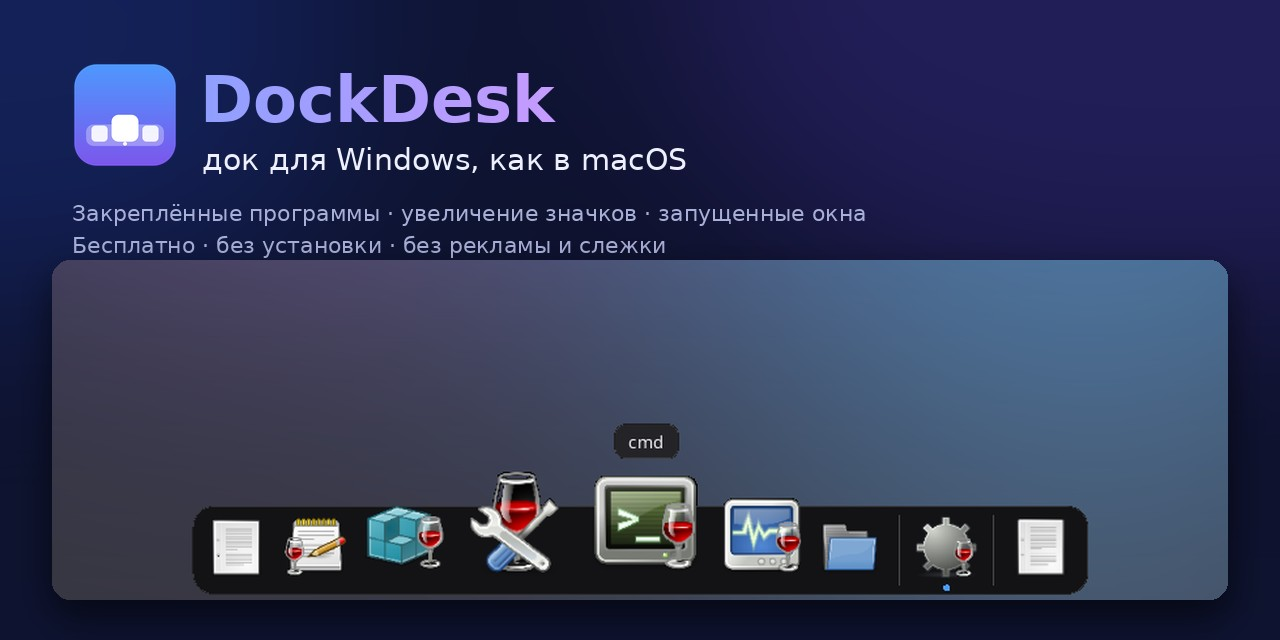
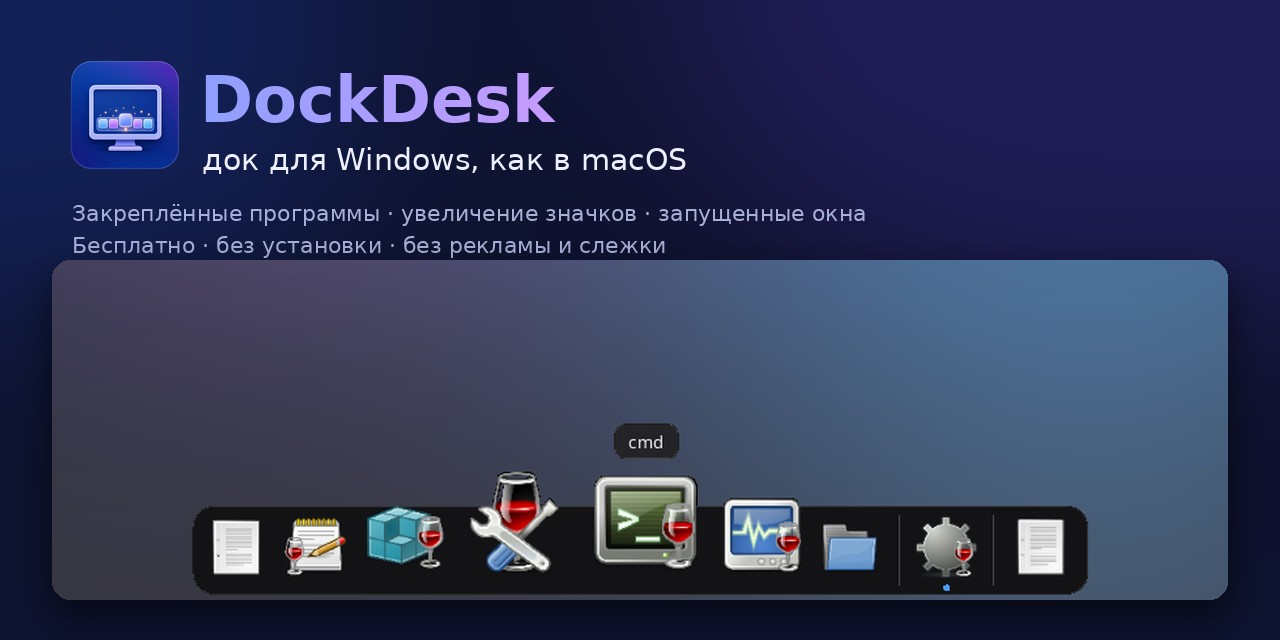
Новый значок DockDesk в стиле Nikolini: монитор с доком; значки сайта, OG-карточка, баннер

Changed region(s): [[0.0312, 0.0938, 0.1562, 0.2812]]

diff --git a/docs/index.html b/docs/index.html
@@ -12,8 +12,8 @@
 <meta property="og:title" content="DockDesk для Windows — док, как в macOS">
 <meta property="og:description" content="Закрепите любимые программы на доке внизу экрана: значки плавно растут под курсором, запущенные окна — под рукой.">
 <meta property="og:locale" content="ru_RU">
-<meta property="og:image" content="https://nikolinioff.github.io/DockDesk/assets/og-card.gif">
-<meta property="og:image:secure_url" content="https://nikolinioff.github.io/DockDesk/assets/og-card.gif">
+<meta property="og:image" content="https://nikolinioff.github.io/DockDesk/assets/og-card.gif?v=2">
+<meta property="og:image:secure_url" content="https://nikolinioff.github.io/DockDesk/assets/og-card.gif?v=2">
 <meta property="og:image:type" content="image/gif">
 <meta property="og:image:width" content="1200">
 <meta property="og:image:height" content="630">
@@ -21,7 +21,7 @@
 <meta name="twitter:card" content="summary_large_image">
 <meta name="twitter:title" content="DockDesk для Windows — док, как в macOS">
 <meta name="twitter:description" content="Закрепите любимые программы на доке внизу экрана: значки плавно растут под курсором, запущенные окна — под рукой.">
-<meta name="twitter:image" content="https://nikolinioff.github.io/DockDesk/assets/og-card.gif">
+<meta name="twitter:image" content="https://nikolinioff.github.io/DockDesk/assets/og-card.gif?v=2">
 <meta name="twitter:image:alt" content="DockDesk — док для Windows, как в macOS">
 <meta name="theme-color" content="#6c7cff">
 <link rel="icon" type="image/png" href="assets/favicon.png">
